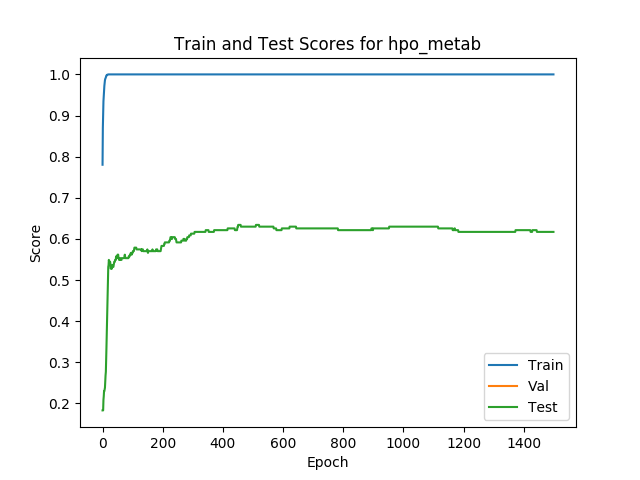
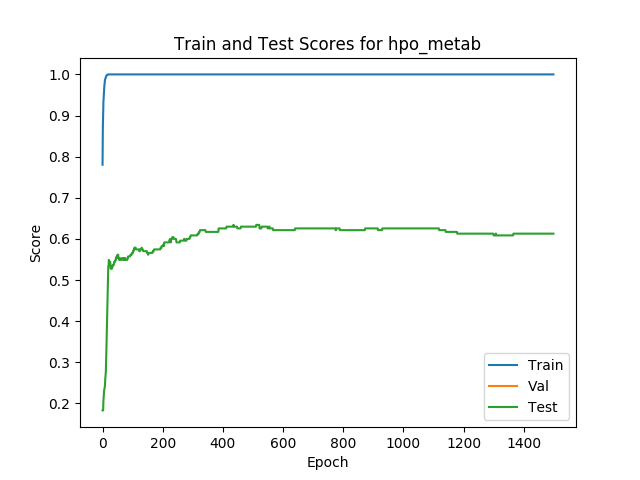
readme

diff --git a/README.md b/README.md
@@ -1,2 +1,41 @@
 # ISNN
 
+## Setup
+
+### 1. Install Required Libraries
+
+To begin using the ISNN framework, ensure all necessary libraries are installed. You can install the required libraries by using the `requirements.txt` file. To install the dependencies, run the following command:
+
+```bash
+pip install -r requirements.txt
+```
+or use your preferred package manager.
+
+### 2. Datasets
+
+The **Real-World Datasets** used in this project were sourced from the paper:
+**"Subgraph Neural Networks"**  
+Emily Alsentzer, Samuel G. Finlayson, Michelle M. Li, Marinka Zitnik  
+_Proceedings of Neural Information Processing Systems (NeurIPS), 2020_  
+```bibtex
+@article{alsentzer2020subgraph,
+  title={Subgraph Neural Networks},
+  author={Alsentzer, Emily and Finlayson, Samuel G and Li, Michelle M and Zitnik, Marinka},
+  journal={Proceedings of Neural Information Processing Systems, NeurIPS},
+  year={2020}
+}
+```
+
+and can be downloaded from this Dropbox link [here](https://www.dropbox.com/scl/fo/hbjyz991xifmuccfk82hh/AEq9fYl_Ed4TOWlnifJsJ5w?rlkey=zpyvstdbjbwyfmi3e2l2qtqih&e=1&dl=0).
+
+Once installed, unzip the contents of the folder and set the `DATASET_PATH` variable in the `config_path.py` file to the path of the folder containing the datasets.
+
+## Running
+
+To run ISNN, make sure you are cd'd into the `ISNN` directory and run the following command:
+
+```bash
+python ISNN.py --dataset hpo_metab
+```
+
+The hyperparameters used to produce the results in the paper are preset and can be found in the `/hyperparams/{dataset}.yml` file. To change the hyperparameters, you can modify the `.yml` file or pass the hyperparameters as arguments to the command line.
